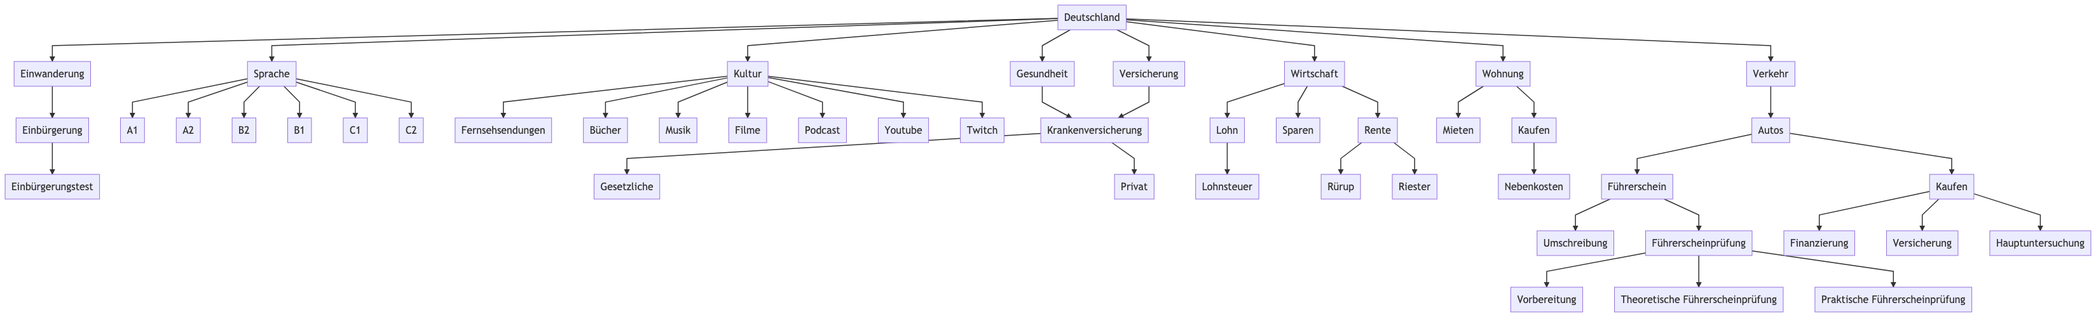
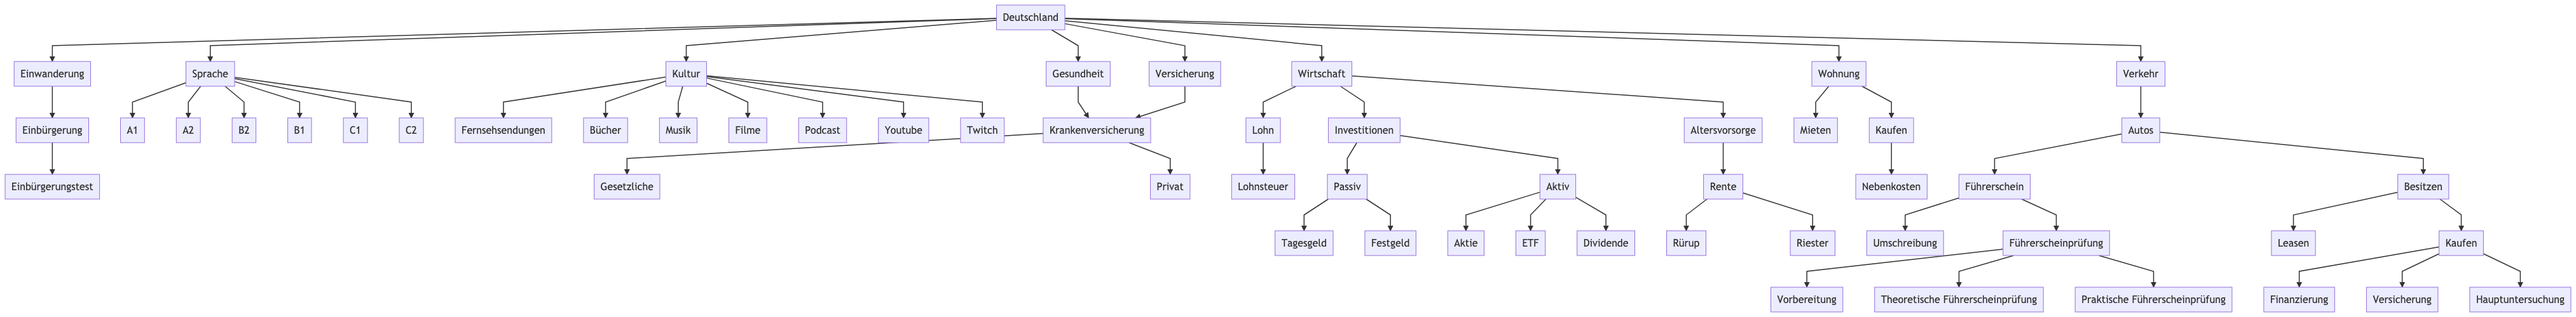
Add investment related sub-topics

diff --git a/README.md b/README.md
@@ -48,14 +48,29 @@
   * Lohn
     * Beruf
       * [Gehaltsreport 2021: Die bestbezahlten Berufe und Branchen in Deutschland!](https://www.youtube.com/watch?v=qggzwdO9k_o)
+    * Schicht
+      * [Zu welcher Schicht gehörst Du?](https://www.youtube.com/watch?v=JzhnUWUigJQ)
     * Lohnsteuer
-  * Sparen
-    * Festgeld
-    * Tagesgeld
-  * Rente
-    * Rürup
-    * Riester
-
+  * Altersvorsorge
+    * Rente
+      * Rürup
+        * [Rürup-Rente: Unter welchen Bedingungen sie (keinen) Sinn mach](https://www.youtube.com/watch?v=q26XY1-rSaQ)
+        * [Rürup Rente: Für wen lohnt es sich? Vor- & Nachteile!](https://www.youtube.com/watch?v=ZCyOUvS3NJs)
+        * [Basisrente (Rürup) vs Riesterrente | Vor- und Nachteile](https://www.youtube.com/watch?v=ABwTofeDmRE)
+      * Riester
+        * [Riester-Rente einfach erklärt: Welche Anlage-Möglichkeiten gibt es?](https://www.youtube.com/watch?v=4Y2Be_DilrA)
+  * Investitionen
+    * [10.000€ in 10 Jahren - Aktien, ETF, Bitcoin, Gold, Tagesgeld, MSCI World](https://www.youtube.com/watch?v=sqysmr22gcc)
+    * Passiv
+      * [Tagesgeldkonto und Festgeld einfach erklärt!](https://www.youtube.com/watch?v=9EC1PffrXVI)
+      * Tagesgeld
+        * [Was ist ein Tagesgeldkonto?](https://www.youtube.com/watch?v=g60FwLgdqI4)
+      * Festgeld
+    * Aktive
+      * Aktien
+      * ETF
+      * Dividende
+        * [Kritik an der Dividendenstrategie?](https://www.youtube.com/watch?v=4ePuuLqn-oY)
 * Wohnung
   * Mieten
   * Kaufen
